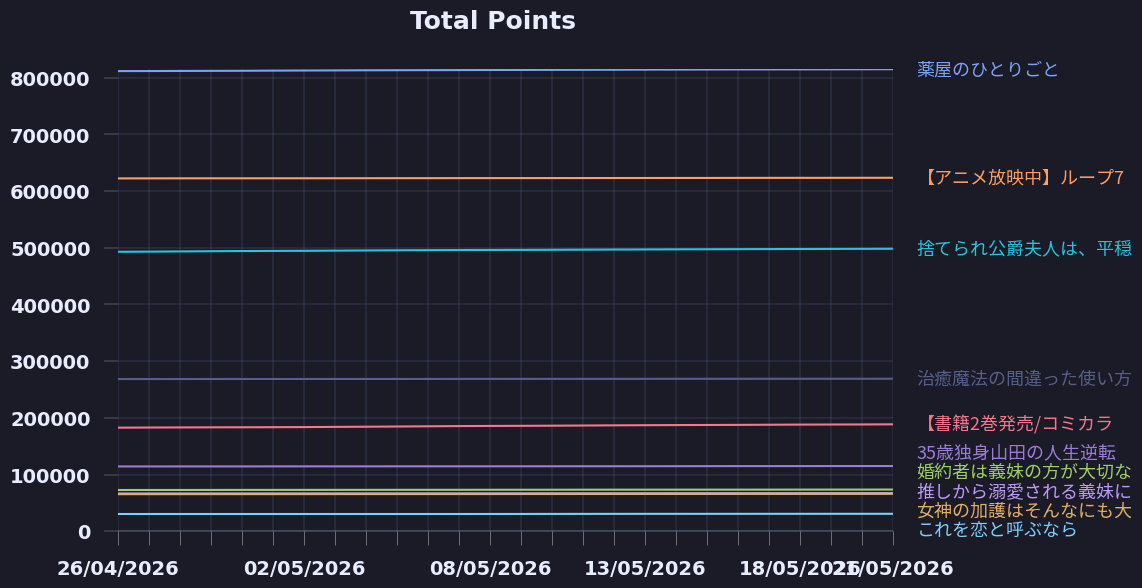
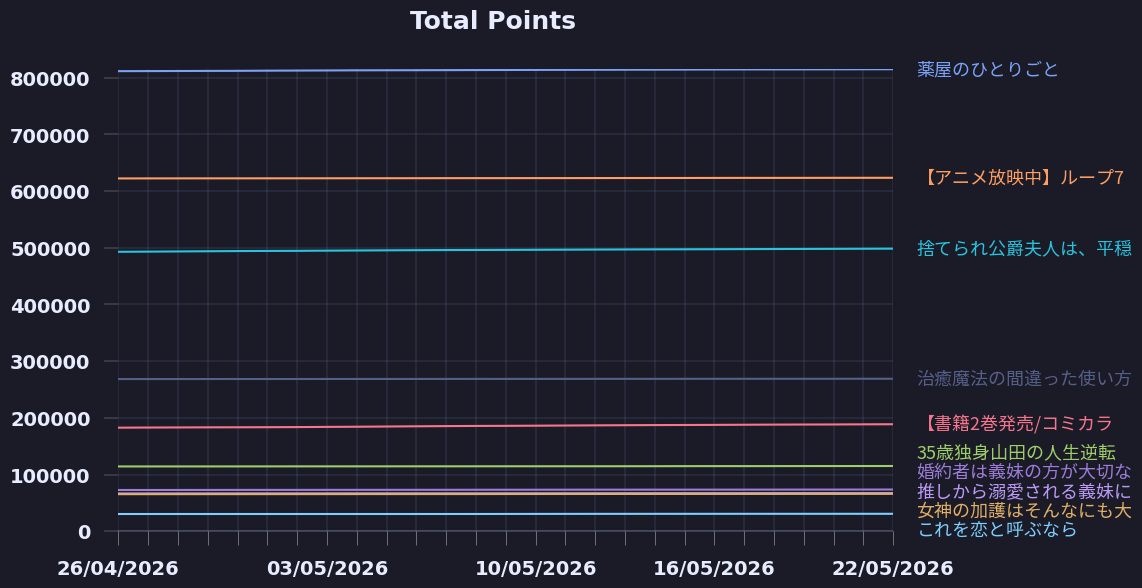
update plots

diff --git a/README.md b/README.md
@@ -12,8 +12,8 @@
 2. [捨てられ公爵夫人は、平穏な生活をお望みのようです](https://ncode.syosetu.com/n4395il/)
 3. [薬屋のひとりごと](https://ncode.syosetu.com/n9636x/)
 4. [【アニメ放映中】ループ7回目の悪役令嬢は、元敵国で自由気ままな花嫁生活を満喫する](https://ncode.syosetu.com/n1784ga/)
-5. [婚約者は義妹の方が大切なので、ふたりが結婚できるようにしてあげようと思います](https://ncode.syosetu.com/n8269hq/)
-6. [35歳独身山田の人生逆転魔法　～現代社会に疲れた俺は異世界でスローライフを楽しむために現代で悪魔と戦って金儲けをしながら異世界村を発展させることにしました～](https://ncode.syosetu.com/n3115io/)
+5. [35歳独身山田の人生逆転魔法　～現代社会に疲れた俺は異世界でスローライフを楽しむために現代で悪魔と戦って金儲けをしながら異世界村を発展させることにしました～](https://ncode.syosetu.com/n3115io/)
+6. [婚約者は義妹の方が大切なので、ふたりが結婚できるようにしてあげようと思います](https://ncode.syosetu.com/n8269hq/)
 7. [推しから溺愛される義妹に転生しました](https://ncode.syosetu.com/n5287io/)
 8. [治癒魔法の間違った使い方～戦場を駆ける回復要員～](https://ncode.syosetu.com/n2468ca/)
 9. [女神の加護はそんなにも大事ですか？](https://ncode.syosetu.com/n3888io/)